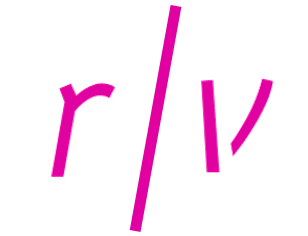
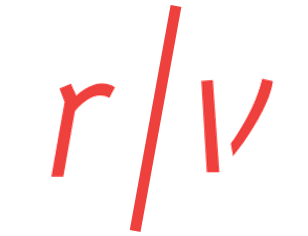
Change color scheme

Changed region(s): [[0.4091, 0.0, 0.6136, 1.0], [0.6429, 0.3263, 0.9058, 0.7415], [0.1461, 0.3263, 0.3799, 0.7712]]

diff --git a/css/main.css b/css/main.css
@@ -125,7 +125,7 @@ a {
   padding-left: 150px;
   padding-right: 150px;
   padding-bottom: 80px;
-  background: rgba(223,223,221,.9);
+  background-color: #ffffff;
 
 }
 
@@ -289,7 +289,7 @@ nav a:focus {
 
 .site-footer::after {
   content: "";
-  background: url(img/subway.png);
+  background: url(img/stamp.jpg);
   opacity: 0.4;
   top: 0;
   left: 0;
@@ -373,7 +373,7 @@ nav a:focus {
 
 .page-content {
   padding-top: 50px;
-  background-color: rgba(174,174,173,.3);
+  background-color: rgba(179,226,227,.5);
 }
 
 .posts { list-style-type: none; }
@@ -507,9 +507,9 @@ nav a:focus {
   font-family: 'Lato';
 	font-weight: 100;
   padding: 8em 0em;
-	border-top: 30px solid rgba(255,0,160,0.4);
-	border-left: 30px solid rgba(253,21,167,0.3);
-	border-right: 30px solid rgba(253,21,167,0.3);
+	border-top: 30px solid rgba(238,64,61,0.8);
+	border-left: 30px solid rgba(238,64,61,.5);
+	border-right: 30px solid rgba(238,64,61,.5);
 	background: url(img/sea.jpg) no-repeat;
 	background-size: 100% 100%;
 }
